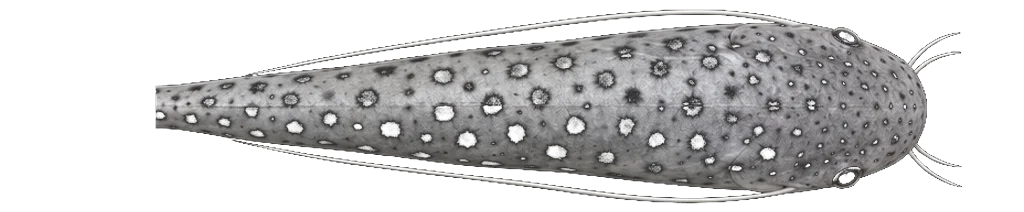
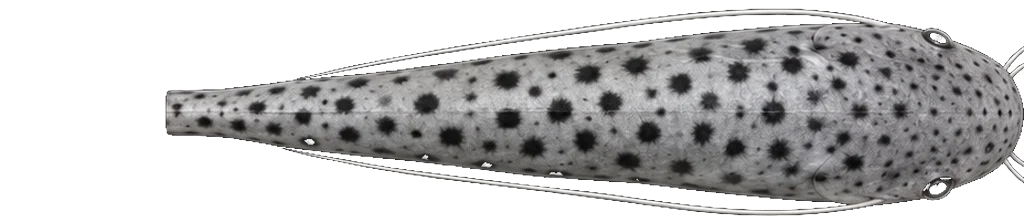
pictus head end (Nathan 2026-11-28 "Yes, fix the head"): the flat square cap in the top view came from the sheet's top panel being drawn shorter than the side panel (top card left the front ~10 % unpainted) and from snout whiskers measured as body width (an 11 % SL flat nose). New opt-in spec flags:

diff --git a/scripts/fish-projcards.py b/scripts/fish-projcards.py
@@ -25,6 +25,19 @@ y0, y1 = map(int, opt['--top'].split(','))
 a = np.asarray(Image.open(aligned).convert('RGB'))[y0:y1]
 SAT = float(opt['--sat']) if '--sat' in opt else 1.0
 MT = float(opt.get("--mask-thr", 30)); m = a.max(2) > MT   # --mask-thr 12: near-black fish (black molly, b6)
+if '--anchor' in sys.argv:
+    # --anchor (spec top_card_anchor, method row 75c; pictus b11): the sheet drew the top view shorter than the side view (snout at x 877 vs 964),
+    # so the card painted only the rear ~90 % of the body and the 3D snout showed a dark square cap. Lay the panel on its OWN body tip (an opening
+    # drops thin barbels / whiskers past the snout) and scale it uniformly so its length matches SL or TL, whichever it is nearer (fish-topview --anchor).
+    from scipy import ndimage as nd
+    body = nd.binary_opening(m, iterations=4); bc = np.nonzero(body.any(0))[0]
+    tip_t, tail_t = float(bc.max()), float(bc.min()); L_ = tip_t - tail_t; SLk = A['slPx'] * k
+    ref_ = TL if abs(L_ - TL) < abs(L_ - SLk) else SLk; h = ref_ / L_
+    pan = Image.fromarray(a).resize((max(1, round(a.shape[1] * h)), max(1, round(a.shape[0] * h))), Image.LANCZOS)
+    a2 = np.zeros((pan.height, max(a.shape[1], round(sx) + 4), 3), np.uint8); dx = round(sx - tip_t * h)
+    pa = np.asarray(pan); xs0 = max(0, dx); xs1 = min(a2.shape[1], dx + pa.shape[1])
+    a2[:, xs0:xs1] = pa[:, xs0 - dx:xs1 - dx]; a = a2; m = a.max(2) > MT
+    print('top card anchored: panel body tip %.0f -> %.0f, scale %.3f (vs %s)' % (tip_t, sx, h, 'TL' if ref_ == TL else 'SL'))
 cols = np.nonzero(m.any(0))[0]
 xcut = 0 if '--no-tail-cut' in sys.argv else int(round(sx - A['slPx'] * k - float(opt.get('--tail-margin', 0.01)) * TL))   # first column kept (x grows toward the snout)
 # centre line from the uncut panel, then cut: rows (card height) and alpha come from the body only
@@ -32,6 +45,9 @@ mid = float(np.median([(np.nonzero(m[:, x])[0].min() + np.nonzero(m[:, x])[0].ma
 a = a.copy(); a[:, :max(0, xcut)] = 0; m = a.max(2) > MT; rows = np.nonzero(m.any(1))[0]
 half = max(mid - rows.min(), rows.max() - mid); Ht = 2 * int(np.ceil(half * s)) + 16
 al = np.clip((a.max(2).astype(float) - 12) / 40, 0, 1)
+if '--fill' in sys.argv:   # --fill (spec top_card_fill, method row 75c): black spots inside the body read as background (alpha = brightness); the filled body is opaque
+    from scipy import ndimage as nd
+    al = np.maximum(al, nd.binary_fill_holes(nd.binary_opening(m, iterations=4)).astype(float))   # opened first: barbels looping back along the flanks would enclose the black gap beside the body
 rgba = Image.fromarray(np.dstack([desat(a, SAT), (al * 255).astype(np.uint8)]), 'RGBA')
 big = rgba.resize((round(a.shape[1] * s), round(a.shape[0] * s)), Image.LANCZOS)
 card = Image.new('RGBA', (1024, Ht), (0, 0, 0, 0))

diff --git a/scripts/fish-build.py b/scripts/fish-build.py
@@ -94,7 +94,7 @@ at = os.path.join(work, 'a.t.json')
 extra = (['--dense'] if spec.get('dense') else []) + (['--dorsals', '2'] if spec.get('dorsals') == 2 else []) + (['--fin-gap', str(spec.get('fin_gap', 40))] if spec.get('finlets') else []) + (['--smooth'] if spec.get('smooth') else []) + (['--warm', '--blue', str(spec['warm'])] if spec.get('warm') else [])
 run(S('fish-outline.py'), os.path.join(work, 'side.png'), anat, *spec.get('outline', '--level --thr 8 --open 9').split(), '--landmarks', os.path.join(work, 'lm.json'), *extra)
 pw = spec.get('pec_window', [22, 44])
-run(S('fish-topview.py'), os.path.join(work, 'sheet.png'), anat, at, ty0 - 6, ty1 + 6, '--x0', 0, '--fullbody', *(['--anchor'] if spec.get('anchor_top', True) else []), '--pec0', pw[0], '--pec1', pw[1], *(['--mask-thr', BAND_THR] if BAND_THR < 40 else []))
+run(S('fish-topview.py'), os.path.join(work, 'sheet.png'), anat, at, ty0 - 6, ty1 + 6, '--x0', 0, '--fullbody', *(['--anchor'] if spec.get('anchor_top', True) else []), *(['--body-tip'] if spec.get('top_card_anchor') else []), '--pec0', pw[0], '--pec1', pw[1], *(['--mask-thr', BAND_THR] if BAND_THR < 40 else []))
 fit = run(S('fish-thickfit.py'), at, '--pedt-max', spec.get('pedt_max', 0.3)).strip()
 J = json.load(open(at, encoding='utf8'))
 A = J['anatomy']
@@ -211,7 +211,7 @@ fincard = os.path.join(shots, ID + '-fincard.png')
 fincommon = [v for i, v in enumerate(common) if not (v == '--clip-head' or (i and common[i - 1] == '--clip-head'))]   # the fin card is read only inside the fin polygons: no head clip, which cut the tailspot blenny's throat pelvics (method row 47)
 run(S('fish-cutout-card.py'), os.path.join(work, 'side_full.png'), anat, fincard, *fincommon)
 run(S('fish-projcards.py'), os.path.join(work, 'sheet.png'), os.path.join(work, 'sheet.png'), at, os.path.join(shots, ID + '-proj'),
-    '--top', '%d,%d' % (ty0 - 6, ty1 + 6), '--front', '%d,%d,%d,%d' % (fx0, fy0_ - 4, fx1, fy1_ + 4), '--sat', sat, *(['--mask-thr', BAND_THR] if BAND_THR < 40 else []))
+    '--top', '%d,%d' % (ty0 - 6, ty1 + 6), '--front', '%d,%d,%d,%d' % (fx0, fy0_ - 4, fx1, fy1_ + 4), '--sat', sat, *(['--mask-thr', BAND_THR] if BAND_THR < 40 else []), *(['--anchor'] if spec.get('top_card_anchor') else []), *(['--fill'] if spec.get('top_card_fill') else []))   # method row 75c
 out = os.path.join(ROOT, 'public', 'art', 'fish')
 os.makedirs(out, exist_ok=True)
 for src, dst in ((card, ID), (os.path.join(shots, ID + '-proj-top.png'), ID + '-top'), (os.path.join(shots, ID + '-proj-front.png'), ID + '-front')):

diff --git a/scripts/fish-topview.py b/scripts/fish-topview.py
@@ -16,12 +16,17 @@ a = np.asarray(Image.open(sheet).convert('RGB')).astype(float)[y0:y1]
 full = a.max(2) > float(opt.get("--mask-thr", 30))   # --mask-thr 12: near-black fish (black molly, b6; fish-build passes it)
 q = np.where(full, a[..., 2] / (a[..., 0] + a[..., 2] + 1e-6), 0)
 qb = np.asarray(Image.fromarray((q * 255).astype(np.uint8)).filter(ImageFilter.GaussianBlur(2))).astype(float) / 255
-body = full if '--fullbody' in sys.argv else full & (qb > thr)   # --fullbody: bodies that aren't bluer than their fins (orange fish)
+body = full if '--fullbody' in sys.argv else full & (qb > thr)
+if '--body-tip' in sys.argv:   # --body-tip (method row 75c): whiskers fanned out at the snout are not body (pictus: they made the nose an 11 % SL flat plate); widths from the opened mask
+    from scipy import ndimage as _nd0; full = _nd0.binary_opening(full, iterations=4); body = full if '--fullbody' in sys.argv else full & (qb > thr)   # --fullbody: bodies that aren't bluer than their fins (orange fish)
 H, W = body.shape
 SL = A['slPx'] * 2; sxs = A['landmarks']['snoutPxOriginal'][0] * 2 + x0
 ANCH = '--anchor' in sys.argv   # --anchor: stations are laid on the top panel's OWN snout tip and tail tip (the panel is often 1-2 % longer than the side view)
 if ANCH:
-    cx_ = np.nonzero(full.any(0))[0]; tip_, tail_ = float(cx_.max()), float(cx_.min())
+    _fa = full
+    if '--body-tip' in sys.argv:   # --body-tip (spec top_card_anchor, method row 75c): barbels drawn past the snout set the tip, so the snout stations read the barbels (pictus: narrow squared nose)
+        from scipy import ndimage as _nd; _fa = _nd.binary_opening(full, iterations=4)
+    cx_ = np.nonzero(_fa.any(0))[0]; tip_, tail_ = float(cx_.max()), float(cx_.min())
     L_ = tip_ - tail_; ref_ = A['tlPx'] * 2 if abs(L_ - A['tlPx'] * 2) < abs(L_ - SL) else SL   # a top panel without its tail fin ends at the stalk: measure it against SL, not TL (else the rear stations fall off the end: E-GEN tang)
     fscale = min(1.1, max(0.9, L_ / ref_))
     if ref_ == SL: sxs = tip_; SLs = L_

diff --git a/scripts/fish-new.py b/scripts/fish-new.py
@@ -18,7 +18,7 @@ import sys, os, json, shutil, subprocess, importlib.util
 
 HERE = os.path.dirname(os.path.abspath(__file__)); ROOT = os.path.dirname(HERE)
 KEEP = ('sat', 'alo', 'aw', 'taper', 'smooth_tail', 'pedt_max', 'clip_head', 'outline', 'fy0', 'erase', 'pec_window', 'anchor_top',
-        'no_tail', 'dorsals', 'smooth', 'warm', 'plan', 'plan_extra', 'fin_gap', 'card_sheet_off', 'sat_auto', 'membrane', 'stalk', 'fin_opacity', 'fin_opacity_source', 'sat_lin', 'front_ramp', 'front_ramp_why', 'solid_near')
+        'no_tail', 'dorsals', 'smooth', 'warm', 'plan', 'plan_extra', 'fin_gap', 'card_sheet_off', 'sat_auto', 'membrane', 'stalk', 'fin_opacity', 'fin_opacity_source', 'sat_lin', 'front_ramp', 'front_ramp_why', 'solid_near', 'top_card_anchor', 'top_card_fill', 'top_card_why', 'barbel_note')
 PROXY_LO, PROXY_HI = 0.75, 1.3   # a proxy fish keeps its drawn depth inside [lo*0.75, hi*1.3] (row 64)
 STRETCH_AT = 0.08   # band around the median when there is no measured range (proxy numbers only)
 TOL = 0.02          # built depth within 2 % of the target: no (further) stretch

diff --git a/research/fish-model-sheet-method.md b/research/fish-model-sheet-method.md
@@ -323,6 +323,7 @@ Each line was a mistake that reached Nathan once. Look for it in the step G rend
 | 72 | "looks good except for the black piece between the goldfish fin near the rear. Thought we fixed that bug already" (Nathan, 2026-11-27, b9 goldfishb) | Not the solid this time (rows 42-43 had already run; `--body-from-map` in 9d7e1698 only made it smaller). The sheet's anal fin overlaps the lower tail lobe, closing off a black gap under the stalk (67 px, 18.4 px from the outside background). Row 45's `--solid` rule keeps an enclosed black pocket 15 px or more from the background as fish (pupils, dark marks), so both cards painted the gap opaque black. (The anal fin recorded to 99.4 % SL was a red herring: its last 6 % SL is 1-2 % SL high, under the body.) | Spec key `solid_near` (`fish-build.py` passes `--solid-near` to both cutouts; `fish-new.py` keeps it): goldfishb 20. Left per species: a scan of every build-B sheet found many real dark marks 15-30 px deep (bala shark's black fin edges, angelfish), so no global depth separates them. To find a case: `fish-cutout-card.py`'s pockets 15 px or deeper that sit between fins at the tail base | Side close-up before / after `C:/Users/nreed/fish-sheets/goldfish-b9-gen/wedge-before-after.png`: gap now shows the tank. gbrb, oscarb, discusc built with the HEAD and new scripts: anatomy and every texture identical |
 | 75 | "can we have a better way to model that long nose on the copper fish? might need a unique methodology change" (Nathan, 2026-11-27, b11 copperbandb) | The sheet drew the tube snout right (22 % SL long, 3-6 % SL deep). The outline's `--open 9` disc erases anything under ~8 % SL deep, so the depth profile had zero depth over the front 8 % SL: the 3D body stopped at the face and the snout was only the flat card (a needle in 3/4 and top view). | Spec `outline: "--level --thr 8 --open 9 --face 26 --face-open 1"`: the existing `--face` option takes the front 26 % SL edges from a 1 px opening, so the solid follows the tube (3.4-4 % SL deep, 2.9 % SL wide: about round). Use for any long tube or beak snout (copperband; later longnose butterflyfish, elephantnose chin, pipefish). Set the % to the snout length measured on the sheet. | Before / after 4-view: `shots/b11-copperband-snout-before-after.png` (worktree unruffled-pike-9ae74f). |
 | 75b (renumber at merge: main has 76-77) | "barbels lost in the model; head end cut flat in top view" (Nathan, 2026-11-28, b11 pictusb review) | The sheet draws two short chin pairs and one long maxillary pair running back under the belly past the anal fin; the card cutout drops thin barbels and the 3D barbels were two short forward-down pairs only. New opt-in Plan knobs `barbelTrail` (length in u), `barbelTrailR`, `barbelC` (fish3d.ts `barbelTrailMeshes`): a tapered tube from the jaw corner, dropping under the chin, then just under the belly and outside the flank, carrying uv.x / aSwL so it waves with the tail. pictusb spec `plan_extra: {barbels: 0.025, barbelR: 0.003, barbelTrail: 0.72, barbelC: "#cfcfca"}` (pale like the sheet; the default belly shade x 0.85 read dark). Other catfish with long barbels can use it (glass catfish, syno). NOT fixed: the flat-cut head end in top view (a square dark cap past the rounded head; bristlenose shows a smaller one, syno none); `--snout-open 15` changed nothing. Also seen: the black spots are keyed out (alpha 0) in `pictusb-top.webp`, the black sheet background matte catching them. |
+| 75c (renumber at merge) | "Yes, fix the head" (Nathan, 2026-11-28, pictusb: the head end cut flat in the top view, row 75b) | Three causes, all barbels or sheet drift, none in the body loft. (1) The sheet drew the top view shorter than the side (body tip x 877 vs side snout 964); `fish-projcards.py` lays the top card on the SIDE snout, so the front ~10 % of the 3D body had no top paint and showed a dark square cap. New `--anchor`: the card is laid on the top panel's own body tip (opening, 4 px, drops whiskers) and scaled uniformly to SL or TL, whichever its length is nearer (the same rule as fish-topview --anchor). (2) The whiskers fanned out at the snout in the top panel were measured as body; the nose-flare rule then held the front 8 % SL at that width: an 11 % SL wide flat face. New fish-topview `--body-tip`: tip and widths from the opened mask (snout now 1.7 % SL half-width at the tip, 5.8 at 3 %, as the sheet; mass 1.07-1.27x from 1.21-1.44x). (3) The top card's alpha is brightness, so black spots were holes; `--fill` makes the filled OPENED body opaque (filling the raw mask closed the gap between the flank and the trailing barbels into black strips). All opt-in: spec `top_card_anchor: true` (anchor + body-tip) and `top_card_fill: true`, kept by fish-new. Candidates to make default once checked on a few: any fish with whiskers past the snout (bristlenose shows a small cap) or black spots. Check gotcha: Vite served a stale cached anatomy JSON after the rebuild; restart it with `--force` before judging a rebuilt model in review.html. |
 
 ## 5. Open problems (not solved yet; whoever solves one moves it into sections 3-4)
 

diff --git a/research/fish-sheets/HANDOFF-batch-b11.md b/research/fish-sheets/HANDOFF-batch-b11.md
@@ -31,7 +31,7 @@ TL = typical adult total length in the aquarium. Photos = Wikimedia Commons cate
 | jackdempsey | Jack Dempsey, *Rocio octofasciata* | 10 in | own | - | [29](https://commons.wikimedia.org/wiki/Category:Rocio_octofasciata) |
 | frontosa | Frontosa, *Cyphotilapia frontosa* | 13 in | own | - | [22](https://commons.wikimedia.org/wiki/Category:Cyphotilapia_frontosa) |
 | blackghost | Black ghost knifefish, *Apteronotus albifrons* | 8 in (20 in max) | own | dorsal, pelvic | [16](https://commons.wikimedia.org/wiki/Category:Apteronotus_albifrons) |
-| pictus | 7cd2abef, barbels 36df4f18 | fix | barbels fixed 2026-11-28 (new `barbelTrail` long pair + pale chin pairs, method row 75b), awaiting his look; still open: head end cut flat in top view (square dark cap), black spots keyed out of the top texture |
+| pictus | 7cd2abef, barbels 36df4f18, head see commit after f4fb65cb | fix done, awaiting his look | barbels (row 75b) and head end / top card (row 75c) fixed 2026-11-28; 4-view `shots/pictus-head3.png` |
 | greenspotpuffer | Green spotted puffer, *Dichotomyctere nigroviridis* | 6.5 in | own (as *Tetraodon nigroviridis*) | pelvic | [11](https://commons.wikimedia.org/wiki/Category:Tetraodon_nigroviridis) |
 | bumblebeegoby | Bumblebee goby, *Brachygobius doriae* | 1.6 in | own | - (2nd dorsal -> red) | [5](https://commons.wikimedia.org/wiki/Category:Brachygobius_doriae) |
 | scarletbadis | Scarlet badis (male), *Dario dario* | 0.8 in | proxy *D. hysginon* | - | [2: male + female](https://commons.wikimedia.org/wiki/File:Dario_dario_male.jpg) |
@@ -79,6 +79,6 @@ TL = typical adult total length in the aquarium. Photos = Wikimedia Commons cate
 - Approved, waiting for catalogue (SO1 / SO2 lanes, R202; they message "catalogue ready: <id>", then add `<id>: {look: "<id>b", approved: <date>}` to fishLive.json):
   congotetra, denison, domino, flamehawk, frontosa, greenspotpuffer, jackdempsey, nasotang, paradisefish, powderbluetang, scarletbadis, serpae, silverdollar.
 - Not approved yet: bumblebeegoby (broad head kept; ask for model approval), copperband (tube snout rebuilt, show Nathan).
-- Fix: pictus head end (barbels done 36df4f18, show Nathan), snowflakemoray (eel). Step pending (code path): blackghost (no dorsal), lionfish (rows join). Sheet redo: picasso.
+- Show Nathan: pictus (barbels + head fixed). Fix: snowflakemoray (eel). Step pending (code path): blackghost (no dorsal), lionfish (rows join). Sheet redo: picasso.
 - b12: prompts ready (`HANDOFF-batch-b12.md`); Nathan runs the queue, then `fish-batch.py --batch b12 --group 4`.
 - Review pictures: `scripts/review/fishsheet.mjs` (usage `node fishsheet.mjs <port> <name> <ids>` against a dev server of this worktree, saves to `shots/`). Stop Vite servers after each batch (RAM).
